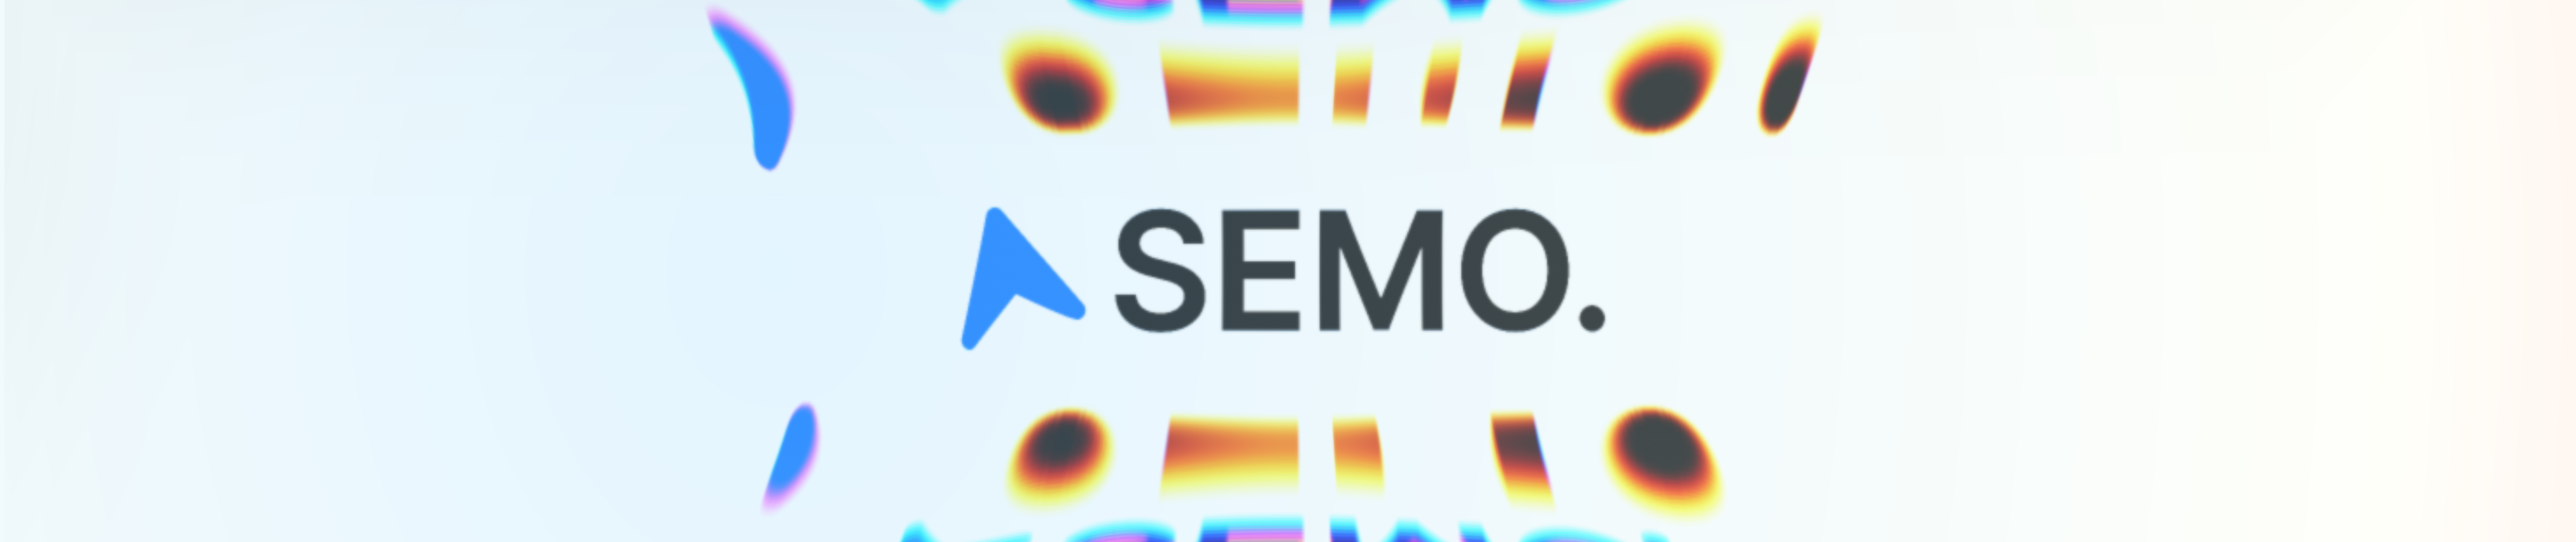
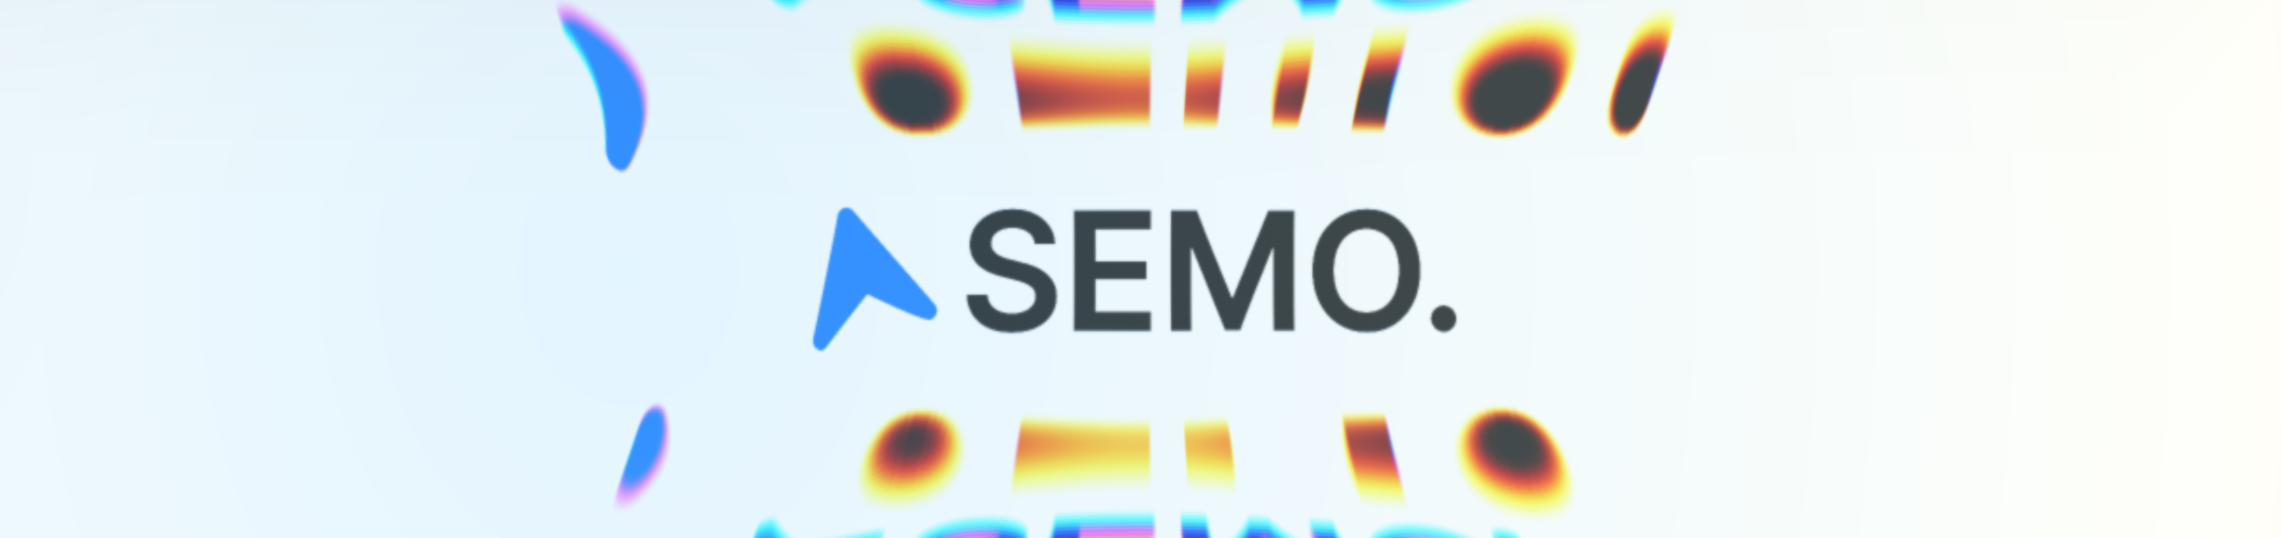
fix: hero 슬라이드 크기를 1060x250으로 맞추고 갤러리 목데이터·내비 버튼을 다듬습니다
- hero 슬라이드/이미지 크기를 1059x252 → 1060x250으로 변경하고, 새 비율에 맞춰
  재출력한 배너 이미지로 교체합니다.
- gallery 목데이터도 기존 단일 이미지 반복 대신 동일한 SEMO 배너 3종으로 교체합니다.
- 캐러셀 넘김 버튼의 화살표 크기(34→46px)와 그림자(carouselNav 토큰)를 키워
  가독성을 높입니다.

diff --git a/front/src/components/ads/AdCarousel.tsx b/front/src/components/ads/AdCarousel.tsx
@@ -21,10 +21,10 @@ type AdCarouselProps = {
 const HeroViewport = styled.div({
   position: 'relative',
   overflow: 'hidden',
-  height: '252px',
+  height: '250px',
   '& img': {
-    width: '1059px',
-    height: '252px',
+    width: '1060px',
+    height: '250px',
     borderRadius: '12px',
     objectFit: 'cover',
     flexShrink: 0,
@@ -78,7 +78,7 @@ const GalleryViewport = styled.div({
   },
 });
 
-const SLIDE_WIDTH = { hero: 1059, gallery: 315 } as const;
+const SLIDE_WIDTH = { hero: 1060, gallery: 315 } as const;
 const SLIDE_GAP = { hero: 60, gallery: 32 } as const;
 const MOBILE_GALLERY_STEP = 122 + 12;
 const mobileLayoutQuery = '(max-width: 480px)';
@@ -115,10 +115,10 @@ const SlideButton = styled.button({
   '&:focus-visible': { outline: `3px solid ${c.primary}`, outlineOffset: '3px' },
 });
 
-// hero는 화면 중앙(50vw)에 놓인 1059px 슬라이드의 가장자리에서 20px 안쪽,
+// hero는 화면 중앙(50vw)에 놓인 1060px 슬라이드의 가장자리에서 20px 안쪽,
 // gallery는 뷰포트 중앙의 315px 슬라이드에서 좌우로 12px + 버튼 너비만큼 바깥에 버튼을 둡니다.
 const navOffset = {
-  hero: 'calc(50vw - 509.5px)',
+  hero: 'calc(50vw - 510px)',
   gallery: 'calc(50% - 213.5px)',
 } as const;
 
@@ -131,8 +131,8 @@ const NavButton = styled.button<{
   zIndex: 1,
   display: 'grid',
   placeItems: 'center',
-  width: '56px',
-  height: '56px',
+  width: '64px',
+  height: '64px',
   padding: 0,
   border: 0,
   borderRadius: '50%',
@@ -149,8 +149,8 @@ const NavButton = styled.button<{
   '&:focus-visible': { outline: `3px solid ${c.primary}`, outlineOffset: '3px' },
   ...(variant === 'gallery' && {
     [mobile]: {
-      width: '40px',
-      height: '40px',
+      width: '46px',
+      height: '46px',
       // GalleryViewport는 overflow: hidden이라 클리핑 경계가 뷰포트의 바깥 테두리와 일치합니다.
       // focus-visible 아웃라인(3px) + outline-offset(3px)만큼 안쪽으로 떨어뜨려야
       // 키보드 포커스 링과 그림자가 잘리지 않습니다.
@@ -161,7 +161,7 @@ const NavButton = styled.button<{
 
 function ArrowIcon({ direction }: { direction: 'prev' | 'next' }) {
   return (
-    <svg width="34" height="34" viewBox="0 0 14 14" fill="none" aria-hidden="true">
+    <svg width="46" height="46" viewBox="0 0 14 14" fill="none" aria-hidden="true">
       <path
         d={direction === 'prev' ? 'M9 3.5 5.5 7 9 10.5' : 'M5 3.5 8.5 7 5 10.5'}
         stroke={c.white}
@@ -301,12 +301,16 @@ export function AdCarousel({
           {slides.map((item, index) => {
             const itemIndex = (((index - pad) % itemCount) + itemCount) % itemCount;
             return (
-              <SlideButton key={`${item.src}-${index}`} type="button" onClick={() => goTo(itemIndex)}>
+              <SlideButton
+                key={`${item.src}-${index}`}
+                type="button"
+                onClick={() => goTo(itemIndex)}
+              >
                 <Image
                   src={item.src}
                   alt={index === railIndex ? item.alt : ''}
                   width={SLIDE_WIDTH[variant]}
-                  height={variant === 'hero' ? 252 : 190}
+                  height={variant === 'hero' ? 250 : 190}
                 />
               </SlideButton>
             );

diff --git a/front/src/components/home/HomePage.tsx b/front/src/components/home/HomePage.tsx
@@ -22,10 +22,11 @@ const heroAds = [
   { src: '/assets/figma-ads/home-hero-3.png', alt: '공모전 시작부터 끝까지 SEMO.BIZ 광고' },
 ];
 
-const galleryAds = Array.from({ length: 6 }, () => ({
-  src: '/assets/figma-ads/home-gallery.png',
-  alt: '경기도사회적경제원 행사 광고',
-}));
+const galleryAds = [
+  { src: '/assets/figma-ads/home-hero-1.png', alt: 'SEMO 브랜드 로고 광고' },
+  { src: '/assets/figma-ads/home-hero-2.png', alt: '간편하고 쉬운 공모전을 위해, SEMO 광고' },
+  { src: '/assets/figma-ads/home-hero-3.png', alt: '공모전 시작부터 끝까지 SEMO.BIZ 광고' },
+];
 
 function MoreIcon() {
   return (

diff --git a/front/src/styles/theme.ts b/front/src/styles/theme.ts
@@ -62,6 +62,6 @@ export const theme = {
   shadow: {
     toast: '4px 4px 10px 0 rgb(0 0 0 / 20%)',
     focus: '2px 2px 20px 0 rgb(154 198 255 / 45%)',
-    carouselNav: '0 4px 12px rgb(27 33 44 / 16%)',
+    carouselNav: '0 6px 20px rgb(27 33 44 / 32%)',
   },
 } as const;
